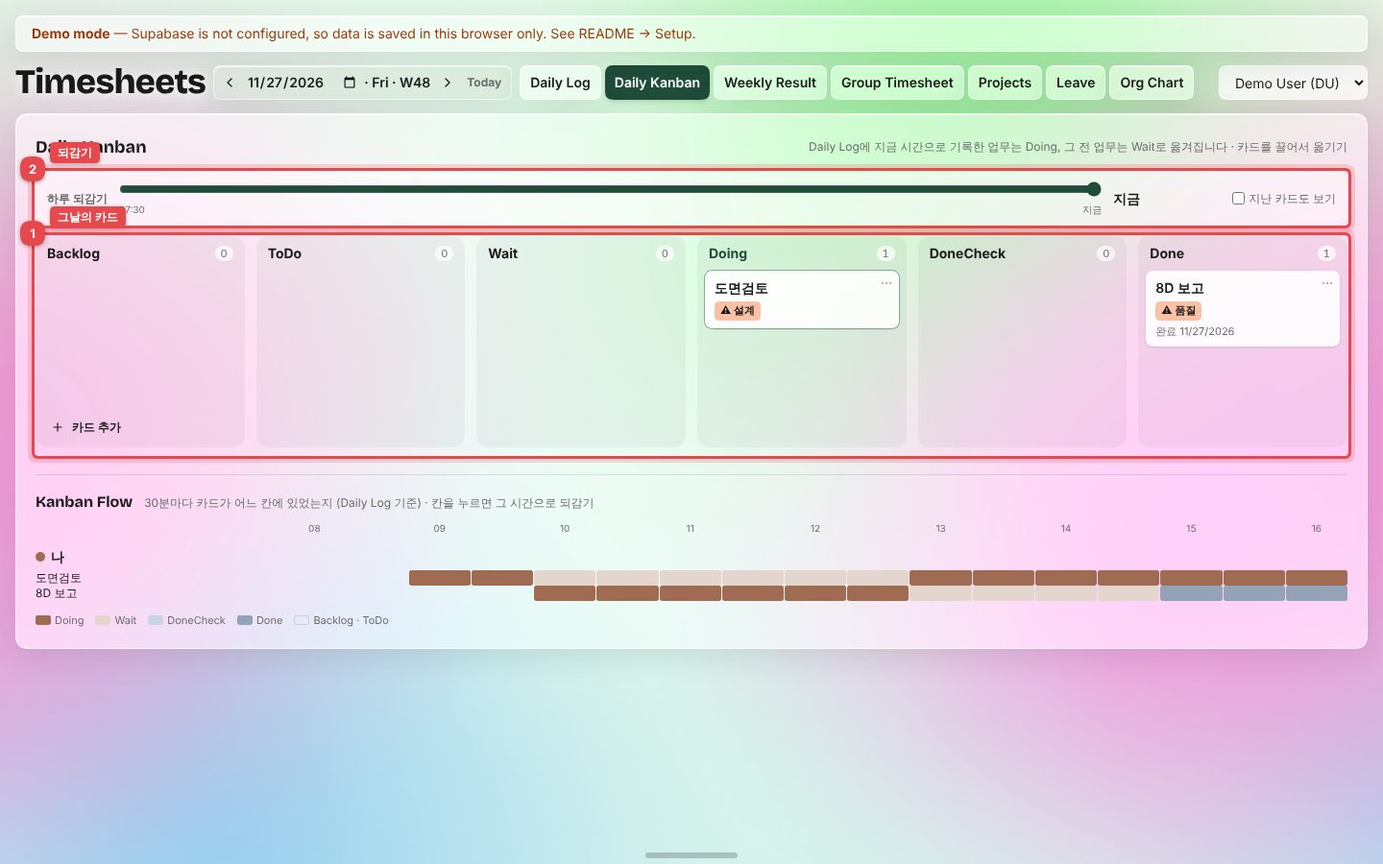
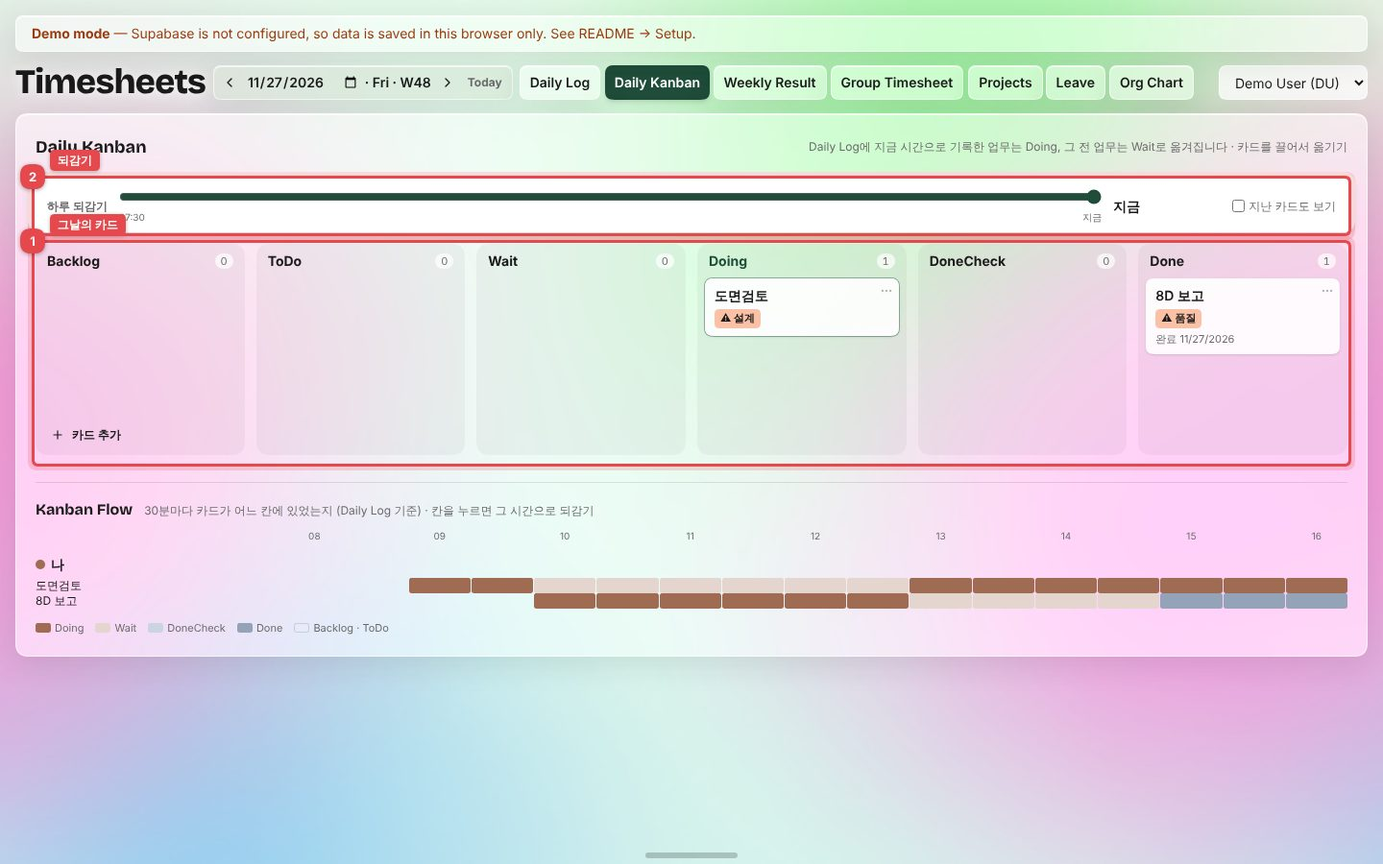
Verification report: Daily Kanban day, replay and Kanban Flow (commit 16552f5)
Claude-Session: https://claude.ai/code/session_01A1L3RATWraiPWfjj96SejH

diff --git a/docs/test-reports/2026-11-27-kanban-flow/index.html b/docs/test-reports/2026-11-27-kanban-flow/index.html
@@ -49,10 +49,10 @@ a { color: var(--accent) } a:focus-visible, summary:focus-visible { outline: 2px
 @media (max-width: 640px) { dl { grid-template-columns: 1fr } h1 { font-size: 1.5rem } }
 </style></head><body><div class="wrap">
 <header class="head"><a href="../index.html" class="eyebrow">← 검증 보고서 목록</a><p class="eyebrow">검증 보고서 · E2E</p><h1>Daily Kanban: 그날의 카드, 하루 되감기, Kanban Flow</h1>
-<div class="meta"><span>날짜 2026-11-27</span><span>커밋 <code>880560d</code></span><span>스위트 <code>tests/e2e/batchV.e2e.cjs</code></span><span>Chromium 157.0.8103.78 · 1440×900, 시계 2026-11-27 16:10 고정(어제 기록은 2026-11-26 16:00), 데모 모드</span><span>데모 모드(가상 데이터)</span></div></header>
-<section class="summary" aria-label="결과 요약"><span class="pill pass">PASS</span><strong>6 / 6</strong><span>테스트 케이스 통과 · 증적 화면 3장</span></section>
+<div class="meta"><span>날짜 2026-11-27</span><span>커밋 <code>16552f5</code></span><span>스위트 <code>tests/e2e/batchV.e2e.cjs</code></span><span>Chromium 157.0.8103.78 · 1440×900, 시계 2026-11-27 16:10 고정(어제 기록은 2026-11-26 16:00), 데모 모드</span><span>데모 모드(가상 데이터)</span></div></header>
+<section class="summary" aria-label="결과 요약"><span class="pill pass">PASS</span><strong>7 / 7</strong><span>테스트 케이스 통과 · 증적 화면 4장</span></section>
 <section class="req"><div class="box"><h2>요청</h2><p>(버그) Daily Kanban은 그날의 내용을 보여 줘야 하는데 지난 데이터가 넘어온다. 칸반에 하루를 30분 간격으로 어떤 일을 Doing으로 했는지 스크롤을 옮기며 블록이 이동하는 것을 보는 UI. 칸반 아래 Kanban Flow: 30분 간격으로 선택된 사용자마다 어떻게 이동했는지 하루 전체 그래프.</p></div><div class="box"><h2>인수 기준</h2><ol><li>선택한 날짜의 카드만(그날 Daily Log에 기록됐거나 손으로 옮긴 카드) + Backlog·ToDo. 지난 카드는 &quot;지난 카드도 보기&quot;로만.</li><li>하루 되감기: 슬라이더를 30분씩 옮기면 그 시점의 보드(Daily Log 기준: 그 칸의 업무가 Doing, 이전 업무는 Wait), 손으로 옮긴 카드는 옮긴 시각에. 그 30분에 옮겨진 카드는 노란 테두리, 되감기 중에는 읽기 전용.</li><li>Kanban Flow: 나와 체크한 팀원마다 그날 움직인 카드가 한 줄씩, 30분마다 칸(Doing 진한 색, Wait 연한 색, Done 회색). 칸을 누르면 그 시간으로 되감기.</li><li>지난 날짜는 그날 하루가 끝났을 때의 보드(읽기 전용).</li></ol></div></section>
-<section style="display:grid;gap:12px"><h2>테스트 케이스</h2><div class="tablewrap"><table><thead><tr><th>#</th><th>테스트 케이스</th><th>기대 결과</th><th>실제 결과</th><th>판정 근거 (Assertion)</th><th>결과</th><th>증적</th></tr></thead><tbody><tr class=""><td class="n"><a href="#shot-1" title="증적 보기">1</a></td><td>그날의 카드만 (지난 카드는 &quot;지난 카드도 보기&quot;로만)</td><td>오늘 보드: Doing '도면검토', Done '8D 보고', 어제의 '지난주 이슈' 없음; 지난 카드도 보기 → Wait에 '지난주 이슈'</td><td>오늘 Doing [도면검토], Done [8D 보고], Wait [] · 지난 카드 포함 Wait [지난주 이슈]</td><td><code>칸별 카드 제목, Show earlier cards 체크 전후</code></td><td><span class="pill pass">PASS</span></td><td><a href="#shot-1">화면 1</a></td></tr><tr class=""><td class="n"><a href="#shot-2" title="증적 보기">2</a></td><td>하루 되감기: 30분마다 Daily Log대로, 손으로 옮긴 건 옮긴 시각에</td><td>09:00 Doing '도면검토'(노란 테두리), 10:00 Doing '8D 보고'·Wait '도면검토', 14:30 Doing '도면검토'·Wait '8D 보고', 15:00 Done '8D 보고'(이 30분에 옮김), 되감기 중 메뉴 0개·끌기 불가</td><td>범위 0~18 · 09:00(09:00–09:30) Doing [도면검토] 테두리 [도면검토] · 10:00 Doing [8D 보고] Wait [도면검토] · 14:30 Doing [도면검토] Wait [8D 보고] · 15:00 Done [8D 보고] 테두리 [8D 보고] · 메뉴 0, draggable=false</td><td><code>슬라이더 위치별 칸 제목, data-moved, Options 버튼 수, draggable</code></td><td><span class="pill pass">PASS</span></td><td><a href="#shot-2">화면 2</a></td></tr><tr class=""><td class="n"><a href="#shot-3" title="증적 보기">3</a></td><td>Kanban Flow: 카드마다 한 줄, 30분마다 칸 · 칸을 누르면 그 시간으로</td><td>줄: 도면검토, 8D 보고 (어제 카드 없음) · 도면검토 09:00 doing, 10:00 wait, 13:00 doing · 8D 10:00 doing, 15:00 done, 08:30 없음 · 15:00 칸 누르면 '15:00–15:30'</td><td>줄 [도면검토,8D 보고] · 도면검토 doing/wait/doing · 8D doing/done/'' · 누른 뒤 '15:00–15:30'</td><td><code>flow-row 의 data-task, 칸의 data-status, 누른 뒤 replay-time</code></td><td><span class="pill pass">PASS</span></td><td><a href="#shot-3">화면 3</a></td></tr><tr class=""><td class="n">4</td><td>체크한 팀원도 Flow에 사람별로, 되감기에도 함께</td><td>Flow 사람 [나, 윤도현], 윤도현 줄: 도면 검토 · 설계 회의 · 3D 모델링, 11:00 되감기 Doing에 윤도현 '설계 회의'</td><td>사람 [나,윤도현] · 윤도현 줄 [도면 검토,설계 회의,3D 모델링] · 11:00 윤도현 Doing [설계 회의]</td><td><code>flow-person / flow-row, 되감은 보드의 윤도현 카드</code></td><td><span class="pill pass">PASS</span></td><td>—</td></tr><tr class=""><td class="n">5</td><td>지난 날짜: 그날 하루가 끝났을 때의 보드 (읽기 전용)</td><td>어제: Doing '지난주 이슈', 오늘 카드 없음, '하루 끝', 안내에 읽기 전용, 메뉴 0개</td><td>Doing [지난주 이슈], 전체 [지난주 이슈], '하루 끝', '2026-11-26 하루가 끝났을 때의 보드 · Daily Log 기준 · 읽기 전용', 메뉴 0</td><td><code>칸 제목, replay-time / replay-note, Options 버튼 수</code></td><td><span class="pill pass">PASS</span></td><td>—</td></tr><tr class=""><td class="n">6</td><td>페이지 오류 없음</td><td>0건</td><td>0건</td><td><code>pageerror 수 === 0</code></td><td><span class="pill pass">PASS</span></td><td>—</td></tr></tbody></table></div></section>
-<section class="shots"><h2>증적 (주석 스크린샷)</h2><p style="margin:0;color:var(--muted)">빨간 테두리와 번호는 표의 테스트 케이스 번호입니다. 그 요소를 확인해 판정했습니다.</p><figure id="shot-1"><img src="shot-01.jpg" alt="오늘의 보드: 어제 카드는 빠지고, 위에 하루 되감기 슬라이더" loading="lazy" width="1440" height="900"><figcaption><strong>화면 1. 오늘의 보드: 어제 카드는 빠지고, 위에 하루 되감기 슬라이더</strong><div class="marks"><span><span class="badge">1</span>그날의 카드만 (지난 카드는 &quot;지난 카드도 보기&quot;로만)</span><span><span class="badge">2</span>하루 되감기: 30분마다 Daily Log대로, 손으로 옮긴 건 옮긴 시각에</span></div></figcaption></figure><figure id="shot-2"><img src="shot-02.jpg" alt="15:00으로 되감기: 15:10에 손으로 옮긴 8D 보고가 Done (노란 테두리)" loading="lazy" width="1440" height="900"><figcaption><strong>화면 2. 15:00으로 되감기: 15:10에 손으로 옮긴 8D 보고가 Done (노란 테두리)</strong><div class="marks"><span><span class="badge">2</span>하루 되감기: 30분마다 Daily Log대로, 손으로 옮긴 건 옮긴 시각에</span></div></figcaption></figure><figure id="shot-3"><img src="shot-03.jpg" alt="Kanban Flow: 30분마다 카드가 있던 칸 (진한 색 Doing, 연한 색 Wait, 회색 Done), 굵은 테두리 = 되감은 시각" loading="lazy" width="1440" height="900"><figcaption><strong>화면 3. Kanban Flow: 30분마다 카드가 있던 칸 (진한 색 Doing, 연한 색 Wait, 회색 Done), 굵은 테두리 = 되감은 시각</strong><div class="marks"><span><span class="badge">3</span>Kanban Flow: 카드마다 한 줄, 30분마다 칸 · 칸을 누르면 그 시간으로</span></div></figcaption></figure></section>
+<section style="display:grid;gap:12px"><h2>테스트 케이스</h2><div class="tablewrap"><table><thead><tr><th>#</th><th>테스트 케이스</th><th>기대 결과</th><th>실제 결과</th><th>판정 근거 (Assertion)</th><th>결과</th><th>증적</th></tr></thead><tbody><tr class=""><td class="n"><a href="#shot-1" title="증적 보기">1</a></td><td>그날의 카드만 (지난 카드는 &quot;지난 카드도 보기&quot;로만)</td><td>오늘 보드: Doing '도면검토', Done '8D 보고', 어제의 '지난주 이슈' 없음; 지난 카드도 보기 → Wait에 '지난주 이슈'</td><td>오늘 Doing [도면검토], Done [8D 보고], Wait [] · 지난 카드 포함 Wait [지난주 이슈]</td><td><code>칸별 카드 제목, Show earlier cards 체크 전후</code></td><td><span class="pill pass">PASS</span></td><td><a href="#shot-1">화면 1</a></td></tr><tr class=""><td class="n"><a href="#shot-2" title="증적 보기">2</a></td><td>하루 되감기: 30분마다 Daily Log대로, 손으로 옮긴 건 옮긴 시각에</td><td>09:00 Doing '도면검토'(노란 테두리), 10:00 Doing '8D 보고'·Wait '도면검토', 14:30 Doing '도면검토'·Wait '8D 보고', 15:00 Done '8D 보고'(이 30분에 옮김), 되감기 중 메뉴 0개·끌기 불가</td><td>범위 0~18 · 09:00(09:00–09:30) Doing [도면검토] 테두리 [도면검토] · 10:00 Doing [8D 보고] Wait [도면검토] · 14:30 Doing [도면검토] Wait [8D 보고] · 15:00 Done [8D 보고] 테두리 [8D 보고] · 메뉴 0, draggable=false</td><td><code>슬라이더 위치별 칸 제목, data-moved, Options 버튼 수, draggable</code></td><td><span class="pill pass">PASS</span></td><td><a href="#shot-2">화면 2</a></td></tr><tr class=""><td class="n"><a href="#shot-3" title="증적 보기">3</a></td><td>Kanban Flow: 카드마다 한 줄, 30분마다 칸 · 칸을 누르면 그 시간으로</td><td>줄: 도면검토, 8D 보고 (어제 카드 없음) · 도면검토 09:00 doing, 10:00 wait, 13:00 doing · 8D 10:00 doing, 15:00 done, 08:30 없음 · 15:00 칸 누르면 '15:00–15:30'</td><td>줄 [도면검토,8D 보고] · 도면검토 doing/wait/doing · 8D doing/done/'' · 누른 뒤 '15:00–15:30'</td><td><code>flow-row 의 data-task, 칸의 data-status, 누른 뒤 replay-time</code></td><td><span class="pill pass">PASS</span></td><td><a href="#shot-3">화면 3</a></td></tr><tr class=""><td class="n">4</td><td>체크한 팀원도 Flow에 사람별로, 되감기에도 함께</td><td>Flow 사람 [나, 윤도현], 윤도현 줄: 도면 검토 · 설계 회의 · 3D 모델링, 11:00 되감기 Doing에 윤도현 '설계 회의'</td><td>사람 [나,윤도현] · 윤도현 줄 [도면 검토,설계 회의,3D 모델링] · 11:00 윤도현 Doing [설계 회의]</td><td><code>flow-person / flow-row, 되감은 보드의 윤도현 카드</code></td><td><span class="pill pass">PASS</span></td><td>—</td></tr><tr class=""><td class="n"><a href="#shot-4" title="증적 보기">5</a></td><td>아래로 내려도 팀원 줄·되감기 슬라이더가 위에 고정 (틀고정처럼)</td><td>페이지를 내린 상태에서 막대 위치 0~20px, Kanban Flow가 화면 안에 보이고, 슬라이더로 13:00 → Flow의 13:00 칸 굵은 테두리</td><td>내린 거리 234px, 막대 y 8px, Flow y 373~618px, '13:00–13:30', 13:00 칸 테두리 solid</td><td><code>window.scrollY &gt; 0 &amp;&amp; kanban-controls.y ∈ [0, 20] &amp;&amp; Flow 가 640px 화면 안 &amp;&amp; replay-time 13:00 &amp;&amp; 칸 outline solid</code></td><td><span class="pill pass">PASS</span></td><td><a href="#shot-4">화면 4</a></td></tr><tr class=""><td class="n">6</td><td>지난 날짜: 그날 하루가 끝났을 때의 보드 (읽기 전용)</td><td>어제: Doing '지난주 이슈', 오늘 카드 없음, '하루 끝', 안내에 읽기 전용, 메뉴 0개</td><td>Doing [지난주 이슈], 전체 [지난주 이슈], '하루 끝', '2026-11-26 하루가 끝났을 때의 보드 · Daily Log 기준 · 읽기 전용', 메뉴 0</td><td><code>칸 제목, replay-time / replay-note, Options 버튼 수</code></td><td><span class="pill pass">PASS</span></td><td>—</td></tr><tr class=""><td class="n">7</td><td>페이지 오류 없음</td><td>0건</td><td>0건</td><td><code>pageerror 수 === 0</code></td><td><span class="pill pass">PASS</span></td><td>—</td></tr></tbody></table></div></section>
+<section class="shots"><h2>증적 (주석 스크린샷)</h2><p style="margin:0;color:var(--muted)">빨간 테두리와 번호는 표의 테스트 케이스 번호입니다. 그 요소를 확인해 판정했습니다.</p><figure id="shot-1"><img src="shot-01.jpg" alt="오늘의 보드: 어제 카드는 빠지고, 위에 하루 되감기 슬라이더" loading="lazy" width="1440" height="900"><figcaption><strong>화면 1. 오늘의 보드: 어제 카드는 빠지고, 위에 하루 되감기 슬라이더</strong><div class="marks"><span><span class="badge">1</span>그날의 카드만 (지난 카드는 &quot;지난 카드도 보기&quot;로만)</span><span><span class="badge">2</span>하루 되감기: 30분마다 Daily Log대로, 손으로 옮긴 건 옮긴 시각에</span></div></figcaption></figure><figure id="shot-2"><img src="shot-02.jpg" alt="15:00으로 되감기: 15:10에 손으로 옮긴 8D 보고가 Done (노란 테두리)" loading="lazy" width="1440" height="900"><figcaption><strong>화면 2. 15:00으로 되감기: 15:10에 손으로 옮긴 8D 보고가 Done (노란 테두리)</strong><div class="marks"><span><span class="badge">2</span>하루 되감기: 30분마다 Daily Log대로, 손으로 옮긴 건 옮긴 시각에</span></div></figcaption></figure><figure id="shot-3"><img src="shot-03.jpg" alt="Kanban Flow: 30분마다 카드가 있던 칸 (진한 색 Doing, 연한 색 Wait, 회색 Done), 굵은 테두리 = 되감은 시각" loading="lazy" width="1440" height="900"><figcaption><strong>화면 3. Kanban Flow: 30분마다 카드가 있던 칸 (진한 색 Doing, 연한 색 Wait, 회색 Done), 굵은 테두리 = 되감은 시각</strong><div class="marks"><span><span class="badge">3</span>Kanban Flow: 카드마다 한 줄, 30분마다 칸 · 칸을 누르면 그 시간으로</span></div></figcaption></figure><figure id="shot-4"><img src="shot-04.jpg" alt="아래로 내려 Kanban Flow를 보면서 위에 고정된 슬라이더로 되감기" loading="lazy" width="1440" height="640"><figcaption><strong>화면 4. 아래로 내려 Kanban Flow를 보면서 위에 고정된 슬라이더로 되감기</strong><div class="marks"><span><span class="badge">5</span>아래로 내려도 팀원 줄·되감기 슬라이더가 위에 고정 (틀고정처럼)</span><span><span class="badge">5</span>아래로 내려도 팀원 줄·되감기 슬라이더가 위에 고정 (틀고정처럼)</span></div></figcaption></figure></section>
 <details><summary>용어</summary><dl><dt>테스트 리포트 (Test Report)</dt><dd>무엇을 어떻게 확인했고 결과가 어땠는지 정리한 검증 보고서. 이 문서.</dd><dt>테스트 케이스 (Test Case)</dt><dd>확인 항목 하나. 표의 한 줄.</dd><dt>인수 기준 (Acceptance Criteria)</dt><dd>요청이 &quot;다 됐다&quot;고 볼 조건. 테스트 케이스는 여기서 나온다.</dd><dt>기대 결과 / 실제 결과 (Expected / Actual)</dt><dd>나와야 하는 것과 실제로 나온 것. 판정 근거의 조건을 만족하면 PASS.</dd><dt>단언 (Assertion)</dt><dd>판정 조건을 코드로 쓴 것. 표의 &quot;판정 근거&quot; 열.</dd><dt>증적 (Test Evidence)</dt><dd>통과를 보여 주는 증거. 여기서는 주석 스크린샷.</dd><dt>주석 스크린샷 (Annotated Screenshot)</dt><dd>확인한 요소에 빨간 테두리와 테스트 케이스 번호를 그린 화면.</dd><dt>E2E 테스트 (End-to-End)</dt><dd>실제 브라우저(Chromium)로 사용자처럼 눌러 보며 확인하는 테스트. 이 보고서의 테스트.</dd><dt>단위 테스트 (Unit Test)</dt><dd>함수 하나를 따로 확인하는 테스트(npm test).</dd><dt>회귀 테스트 (Regression Test)</dt><dd>새 기능 때문에 예전 기능이 깨지지 않았는지 전체를 다시 돌리는 것(npm run test:e2e).</dd><dt>추적성 (Traceability)</dt><dd>요청 ↔ 테스트 ↔ 커밋을 서로 찾아갈 수 있게 연결해 두는 것. 머리말의 커밋·스위트 정보.</dd></dl></details>
 </div></body></html>

diff --git a/docs/test-reports/index.html b/docs/test-reports/index.html
@@ -47,5 +47,5 @@ dl { display: grid; grid-template-columns: max-content 1fr; gap: 6px 18px; margi
 a { color: var(--accent) } a:focus-visible, summary:focus-visible { outline: 2px solid var(--accent); outline-offset: 2px }
 .list { display: grid; gap: 12px } .row { display: flex; flex-wrap: wrap; gap: 8px 16px; align-items: baseline; justify-content: space-between }
 @media (max-width: 640px) { dl { grid-template-columns: 1fr } h1 { font-size: 1.5rem } }
-</style></head><body><div class="wrap"><header class="head"><p class="eyebrow">TeamEmbedded · 검증 기록</p><h1>검증 보고서</h1><p style="margin:0;color:var(--muted);max-width:68ch">기능마다 무엇을 확인했고 어떻게 PASS로 판정했는지, 확인한 화면에 표시해 남긴 기록입니다. 브라우저 테스트(<code>npm run test:e2e</code>)를 <code>REPORT=1</code>로 돌리면 다시 만들어집니다.</p></header><div class="list"><a class="box" href="2026-11-27-ai-cleanup/index.html" style="text-decoration:none;color:inherit"><div class="row"><h2>AI 정리 + 수정 제안(diff)</h2><span class="pill pass">9 / 9 PASS</span></div><p style="margin:6px 0 0;color:var(--muted)">2026-11-27 · 커밋 <code>a98cc14</code> · 증적 5장 · <code>tests/e2e/batchU.e2e.cjs</code></p></a><a class="box" href="2026-11-27-kanban-team/index.html" style="text-decoration:none;color:inherit"><div class="row"><h2>Daily Kanban 팀원 보기 + 사람별 색 필터</h2><span class="pill pass">7 / 7 PASS</span></div><p style="margin:6px 0 0;color:var(--muted)">2026-11-27 · 커밋 <code>a75e391</code> · 증적 3장 · <code>tests/e2e/batchT.e2e.cjs</code></p></a><a class="box" href="2026-11-27-kanban-flow/index.html" style="text-decoration:none;color:inherit"><div class="row"><h2>Daily Kanban: 그날의 카드, 하루 되감기, Kanban Flow</h2><span class="pill pass">6 / 6 PASS</span></div><p style="margin:6px 0 0;color:var(--muted)">2026-11-27 · 커밋 <code>880560d</code> · 증적 3장 · <code>tests/e2e/batchV.e2e.cjs</code></p></a><a class="box" href="2026-11-27-org-access/index.html" style="text-decoration:none;color:inherit"><div class="row"><h2>단계별 열람 권한 + 조직도</h2><span class="pill pass">13 / 13 PASS</span></div><p style="margin:6px 0 0;color:var(--muted)">2026-11-27 · 커밋 <code>5816a53</code> · 증적 4장 · <code>tests/e2e/batchS.e2e.cjs</code></p></a><a class="box" href="2026-11-26-kanban/index.html" style="text-decoration:none;color:inherit"><div class="row"><h2>Daily Kanban (Daily Log와 연동)</h2><span class="pill pass">10 / 10 PASS</span></div><p style="margin:6px 0 0;color:var(--muted)">2026-11-26 · 커밋 <code>f5d5a68</code> · 증적 4장 · <code>tests/e2e/batchR.e2e.cjs</code></p></a><a class="box" href="2026-11-26-dock/index.html" style="text-decoration:none;color:inherit"><div class="row"><h2>Dock 메뉴 (아래 가운데, 자동 숨김)</h2><span class="pill pass">11 / 11 PASS</span></div><p style="margin:6px 0 0;color:var(--muted)">2026-11-26 · 커밋 <code>873f7ac</code> · 증적 3장 · <code>tests/e2e/batchM.e2e.cjs</code></p></a><a class="box" href="2026-11-26-quick-slots/index.html" style="text-decoration:none;color:inherit"><div class="row"><h2>Quick add 프리셋 슬롯 4개 · 드롭다운 번호 간격</h2><span class="pill pass">8 / 8 PASS</span></div><p style="margin:6px 0 0;color:var(--muted)">2026-11-26 · 커밋 <code>88f6abc</code> · 증적 3장 · <code>tests/e2e/batchQ.e2e.cjs</code></p></a><a class="box" href="2026-11-26-mid/index.html" style="text-decoration:none;color:inherit"><div class="row"><h2>Type(유형) 칸 · 행 + 버튼</h2><span class="pill pass">23 / 23 PASS</span></div><p style="margin:6px 0 0;color:var(--muted)">2026-11-26 · 커밋 <code>873f7ac</code> · 증적 10장 · <code>tests/e2e/batchL.e2e.cjs</code></p></a><a class="box" href="2026-11-26-type-prefs/index.html" style="text-decoration:none;color:inherit"><div class="row"><h2>드롭다운 잘림 수정 · Type 순서·색 (개인)</h2><span class="pill pass">9 / 9 PASS</span></div><p style="margin:6px 0 0;color:var(--muted)">2026-11-26 · 커밋 <code>873f7ac</code> · 증적 4장 · <code>tests/e2e/batchP.e2e.cjs</code></p></a><a class="box" href="2026-11-26-templates-table/index.html" style="text-decoration:none;color:inherit"><div class="row"><h2>반복 업무 표 · 칸 이름 Project/Type/Task · + 칸 줄</h2><span class="pill pass">11 / 11 PASS</span></div><p style="margin:6px 0 0;color:var(--muted)">2026-11-26 · 커밋 <code>873f7ac</code> · 증적 6장 · <code>tests/e2e/batchN.e2e.cjs</code></p></a><a class="box" href="2026-11-26-layout/index.html" style="text-decoration:none;color:inherit"><div class="row"><h2>창 배치 편집 · 오른쪽 Dock · Today 그래프 · 자동 줄바꿈 · 빠른 등록</h2><span class="pill pass">22 / 22 PASS</span></div><p style="margin:6px 0 0;color:var(--muted)">2026-11-26 · 커밋 <code>f5d5a68</code> · 증적 10장 · <code>tests/e2e/batchO.e2e.cjs</code></p></a></div>
+</style></head><body><div class="wrap"><header class="head"><p class="eyebrow">TeamEmbedded · 검증 기록</p><h1>검증 보고서</h1><p style="margin:0;color:var(--muted);max-width:68ch">기능마다 무엇을 확인했고 어떻게 PASS로 판정했는지, 확인한 화면에 표시해 남긴 기록입니다. 브라우저 테스트(<code>npm run test:e2e</code>)를 <code>REPORT=1</code>로 돌리면 다시 만들어집니다.</p></header><div class="list"><a class="box" href="2026-11-27-ai-cleanup/index.html" style="text-decoration:none;color:inherit"><div class="row"><h2>AI 정리 + 수정 제안(diff)</h2><span class="pill pass">9 / 9 PASS</span></div><p style="margin:6px 0 0;color:var(--muted)">2026-11-27 · 커밋 <code>a98cc14</code> · 증적 5장 · <code>tests/e2e/batchU.e2e.cjs</code></p></a><a class="box" href="2026-11-27-kanban-team/index.html" style="text-decoration:none;color:inherit"><div class="row"><h2>Daily Kanban 팀원 보기 + 사람별 색 필터</h2><span class="pill pass">7 / 7 PASS</span></div><p style="margin:6px 0 0;color:var(--muted)">2026-11-27 · 커밋 <code>a75e391</code> · 증적 3장 · <code>tests/e2e/batchT.e2e.cjs</code></p></a><a class="box" href="2026-11-27-kanban-flow/index.html" style="text-decoration:none;color:inherit"><div class="row"><h2>Daily Kanban: 그날의 카드, 하루 되감기, Kanban Flow</h2><span class="pill pass">7 / 7 PASS</span></div><p style="margin:6px 0 0;color:var(--muted)">2026-11-27 · 커밋 <code>16552f5</code> · 증적 4장 · <code>tests/e2e/batchV.e2e.cjs</code></p></a><a class="box" href="2026-11-27-org-access/index.html" style="text-decoration:none;color:inherit"><div class="row"><h2>단계별 열람 권한 + 조직도</h2><span class="pill pass">13 / 13 PASS</span></div><p style="margin:6px 0 0;color:var(--muted)">2026-11-27 · 커밋 <code>5816a53</code> · 증적 4장 · <code>tests/e2e/batchS.e2e.cjs</code></p></a><a class="box" href="2026-11-26-kanban/index.html" style="text-decoration:none;color:inherit"><div class="row"><h2>Daily Kanban (Daily Log와 연동)</h2><span class="pill pass">10 / 10 PASS</span></div><p style="margin:6px 0 0;color:var(--muted)">2026-11-26 · 커밋 <code>f5d5a68</code> · 증적 4장 · <code>tests/e2e/batchR.e2e.cjs</code></p></a><a class="box" href="2026-11-26-dock/index.html" style="text-decoration:none;color:inherit"><div class="row"><h2>Dock 메뉴 (아래 가운데, 자동 숨김)</h2><span class="pill pass">11 / 11 PASS</span></div><p style="margin:6px 0 0;color:var(--muted)">2026-11-26 · 커밋 <code>873f7ac</code> · 증적 3장 · <code>tests/e2e/batchM.e2e.cjs</code></p></a><a class="box" href="2026-11-26-quick-slots/index.html" style="text-decoration:none;color:inherit"><div class="row"><h2>Quick add 프리셋 슬롯 4개 · 드롭다운 번호 간격</h2><span class="pill pass">8 / 8 PASS</span></div><p style="margin:6px 0 0;color:var(--muted)">2026-11-26 · 커밋 <code>88f6abc</code> · 증적 3장 · <code>tests/e2e/batchQ.e2e.cjs</code></p></a><a class="box" href="2026-11-26-mid/index.html" style="text-decoration:none;color:inherit"><div class="row"><h2>Type(유형) 칸 · 행 + 버튼</h2><span class="pill pass">23 / 23 PASS</span></div><p style="margin:6px 0 0;color:var(--muted)">2026-11-26 · 커밋 <code>873f7ac</code> · 증적 10장 · <code>tests/e2e/batchL.e2e.cjs</code></p></a><a class="box" href="2026-11-26-type-prefs/index.html" style="text-decoration:none;color:inherit"><div class="row"><h2>드롭다운 잘림 수정 · Type 순서·색 (개인)</h2><span class="pill pass">9 / 9 PASS</span></div><p style="margin:6px 0 0;color:var(--muted)">2026-11-26 · 커밋 <code>873f7ac</code> · 증적 4장 · <code>tests/e2e/batchP.e2e.cjs</code></p></a><a class="box" href="2026-11-26-templates-table/index.html" style="text-decoration:none;color:inherit"><div class="row"><h2>반복 업무 표 · 칸 이름 Project/Type/Task · + 칸 줄</h2><span class="pill pass">11 / 11 PASS</span></div><p style="margin:6px 0 0;color:var(--muted)">2026-11-26 · 커밋 <code>873f7ac</code> · 증적 6장 · <code>tests/e2e/batchN.e2e.cjs</code></p></a><a class="box" href="2026-11-26-layout/index.html" style="text-decoration:none;color:inherit"><div class="row"><h2>창 배치 편집 · 오른쪽 Dock · Today 그래프 · 자동 줄바꿈 · 빠른 등록</h2><span class="pill pass">22 / 22 PASS</span></div><p style="margin:6px 0 0;color:var(--muted)">2026-11-26 · 커밋 <code>f5d5a68</code> · 증적 10장 · <code>tests/e2e/batchO.e2e.cjs</code></p></a></div>
 <details><summary>용어</summary><dl><dt>테스트 리포트 (Test Report)</dt><dd>무엇을 어떻게 확인했고 결과가 어땠는지 정리한 검증 보고서. 이 문서.</dd><dt>테스트 케이스 (Test Case)</dt><dd>확인 항목 하나. 표의 한 줄.</dd><dt>인수 기준 (Acceptance Criteria)</dt><dd>요청이 &quot;다 됐다&quot;고 볼 조건. 테스트 케이스는 여기서 나온다.</dd><dt>기대 결과 / 실제 결과 (Expected / Actual)</dt><dd>나와야 하는 것과 실제로 나온 것. 판정 근거의 조건을 만족하면 PASS.</dd><dt>단언 (Assertion)</dt><dd>판정 조건을 코드로 쓴 것. 표의 &quot;판정 근거&quot; 열.</dd><dt>증적 (Test Evidence)</dt><dd>통과를 보여 주는 증거. 여기서는 주석 스크린샷.</dd><dt>주석 스크린샷 (Annotated Screenshot)</dt><dd>확인한 요소에 빨간 테두리와 테스트 케이스 번호를 그린 화면.</dd><dt>E2E 테스트 (End-to-End)</dt><dd>실제 브라우저(Chromium)로 사용자처럼 눌러 보며 확인하는 테스트. 이 보고서의 테스트.</dd><dt>단위 테스트 (Unit Test)</dt><dd>함수 하나를 따로 확인하는 테스트(npm test).</dd><dt>회귀 테스트 (Regression Test)</dt><dd>새 기능 때문에 예전 기능이 깨지지 않았는지 전체를 다시 돌리는 것(npm run test:e2e).</dd><dt>추적성 (Traceability)</dt><dd>요청 ↔ 테스트 ↔ 커밋을 서로 찾아갈 수 있게 연결해 두는 것. 머리말의 커밋·스위트 정보.</dd></dl></details></div></body></html>
